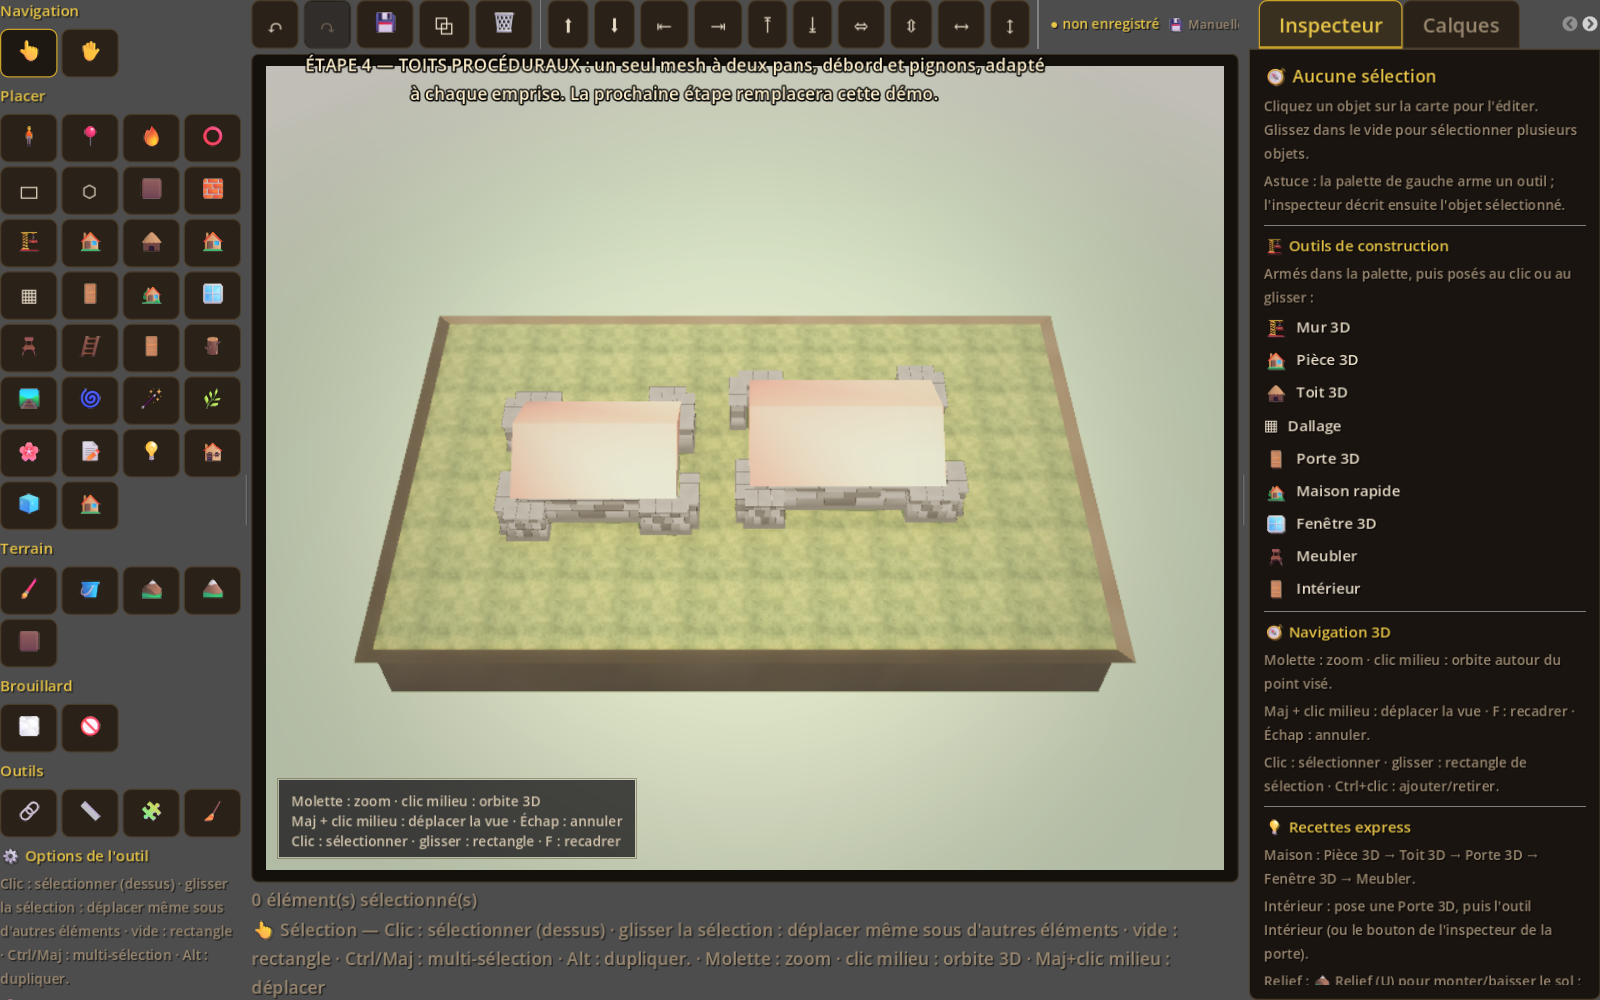
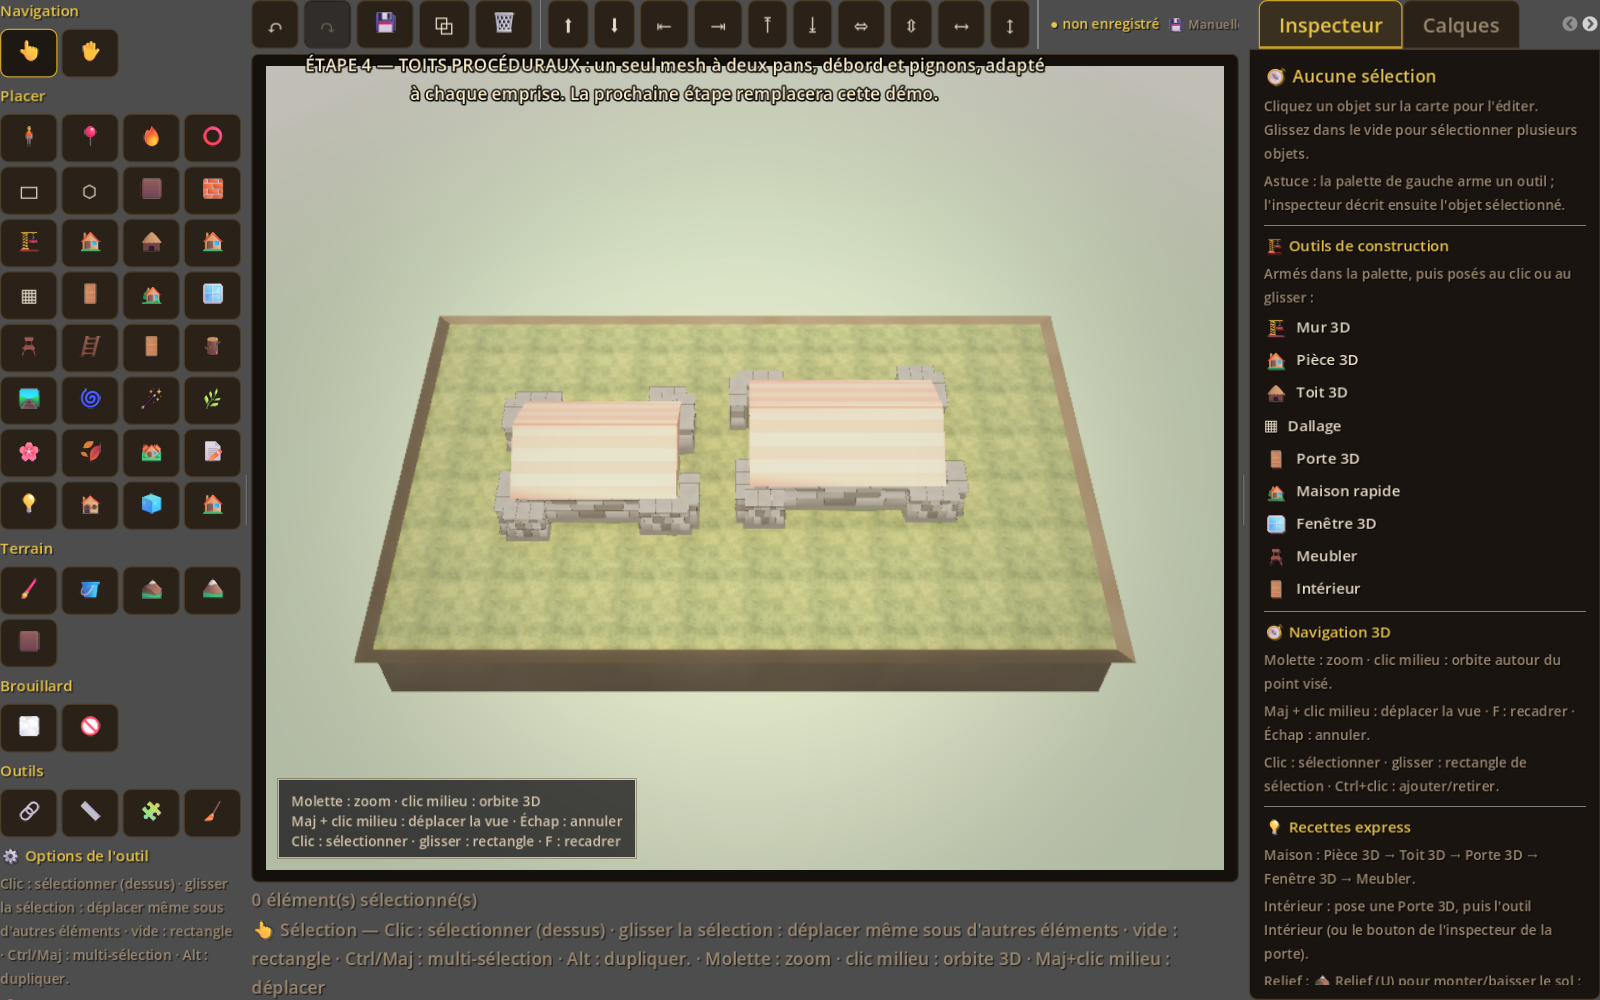
feat(toit): rangs de tuiles et faitage sur le toit procedural

diff --git a/docs/PLAN_PROCEDURAL.md b/docs/PLAN_PROCEDURAL.md
@@ -109,12 +109,13 @@ l'étape suivante, et une capture archivée dans `docs/screenshots/`.
 - Rives et eau adaptées.
 - Critère : créer une colline et une dépression sans quitter l'éditeur.
 
-## Étape 3 — Toits et pièces adaptatifs (livré v1)
+## Étape 3 — Toits et pièces adaptatifs (v2 livrée)
 - Détection d'emprise, toit qui suit la forme.
 - Faîtage, pignons, débords, lucarnes.
 - Raccord mur/toit.
 - Critère : pièce irrégulière couverte sans trou.
 - v1 : toit à deux pans procédural, emprise rectangulaire, outil dédié.
+- v2 : rangs de tuiles colorés, faîtage sombre, pignons et débord.
 
 ## Étape 4 — Générateur Blender paramétrique v1 (livré et audité)
 - Recettes + scripts + manifest.
@@ -247,8 +248,8 @@ Aucune scène de base ne doit dépendre d'un asset modélisé à la main.
 - Étape 2 en cours : relief déformable par tracé (crête/vallée/aplatir/lisser)
   implémenté côté document, éditeur et test ; la démo visuelle est calibrée pour
   révéler le relief malgré la texture.
-- Étape 3 livrée v1 : **toit procédural** à deux pans, débord, pignons, adaptation
-  à l'emprise, outil dédié, test et démo.
+- Étape 3 livrée v2 : **toit procédural** à deux pans, débord, pignons, rangs de
+  tuiles et faîtage, adaptation à l'emprise, outil dédié, test et démo.
 - Étape 4 livrée et auditée : **générateur Blender procédural** — 80 assets,
   5 variantes, toutes familles couvertes (`tools/blender/audit_pipeline.py`).
 - Étape 5 partiellement livrée : **zones fleuries au pinceau** avec type de fleur,
